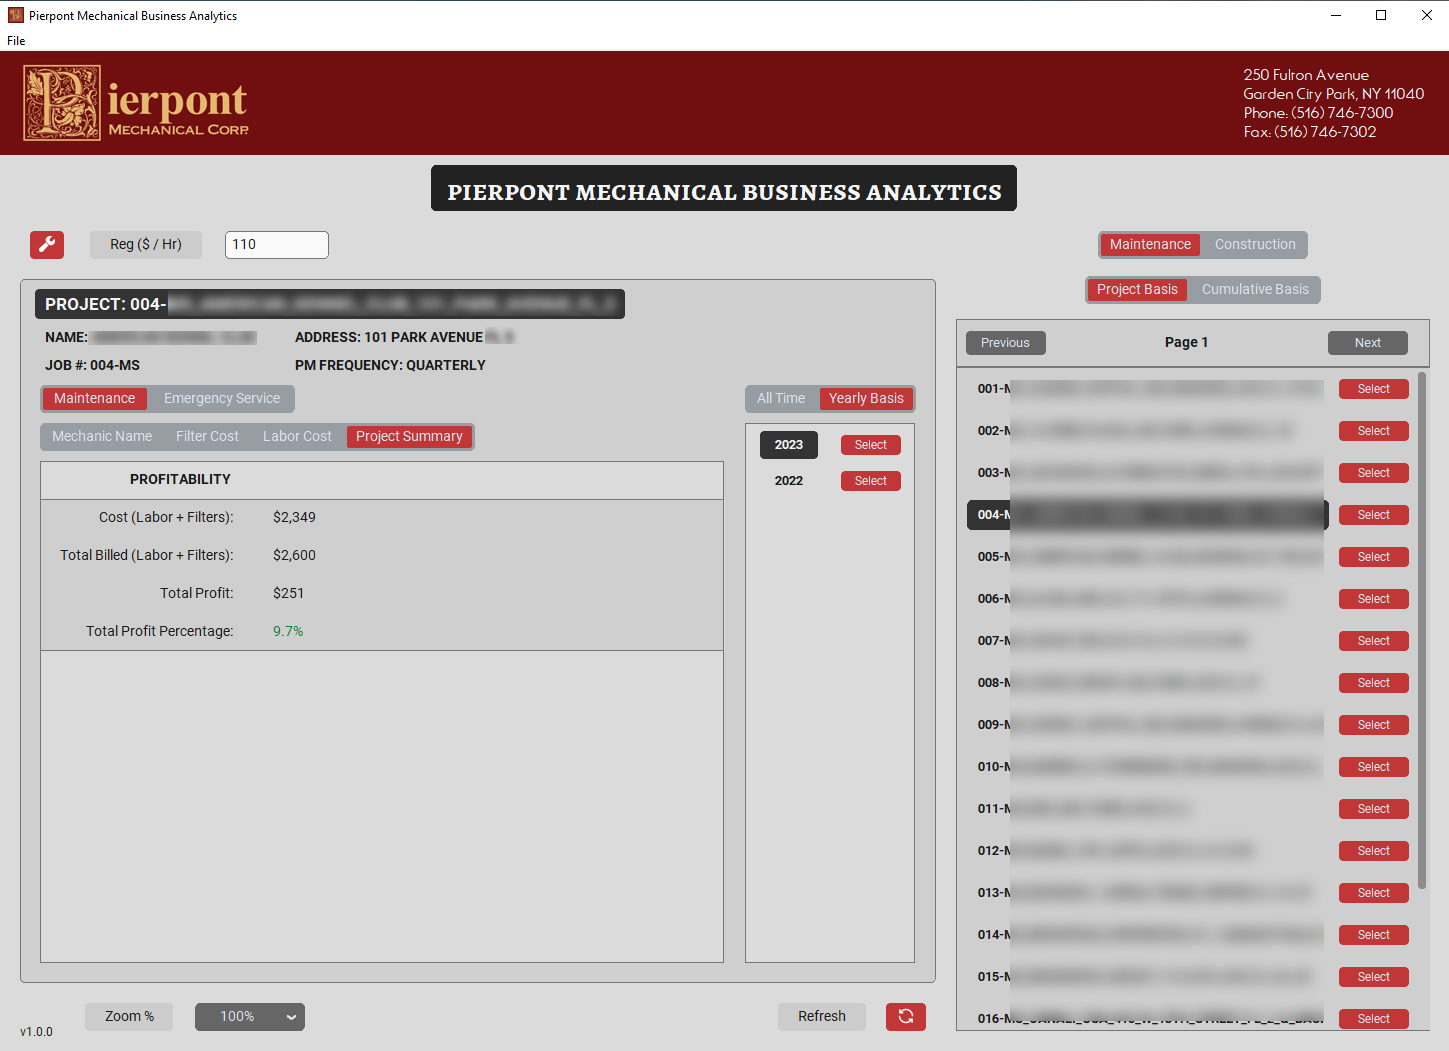
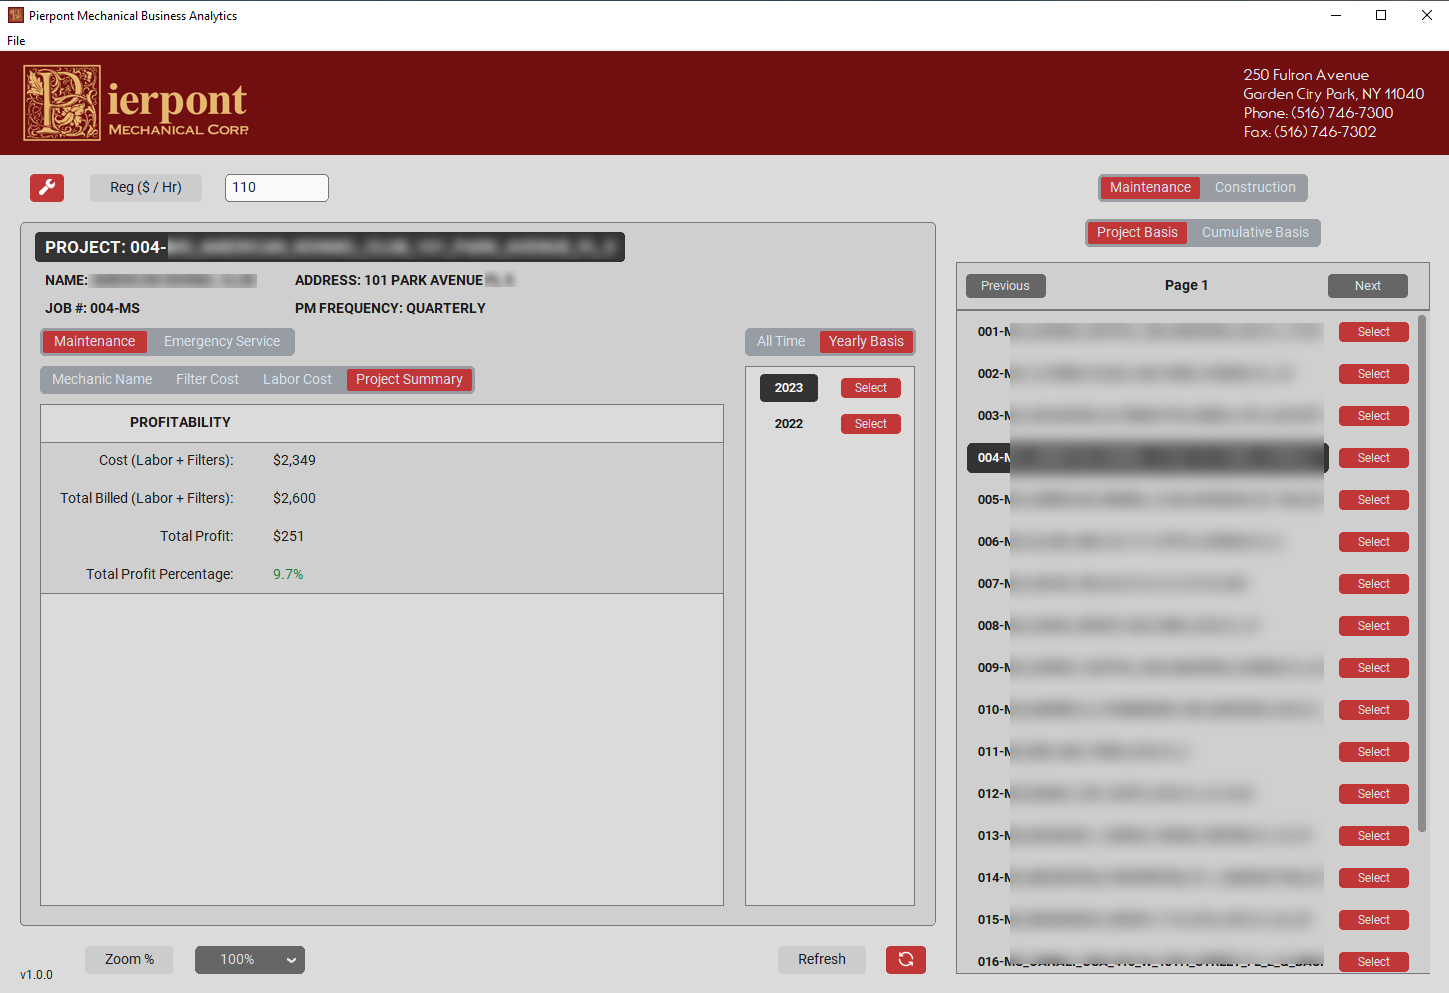
Updated Readme.md

Changed region(s): [[0.0, 0.0, 1.0, 0.999], [0.0311, 0.9053, 0.6522, 0.9678], [0.6832, 0.8429, 0.7143, 0.9366]]

diff --git a/runtime/gui.py b/runtime/gui.py
@@ -100,8 +100,8 @@ class App(customtkinter.CTk):
         self.main_frame.grid_rowconfigure(4, weight=1)
         self.main_frame.grid_columnconfigure((3,5), weight=1)
         # App Title
-        title_label = customtkinter.CTkLabel(self.main_frame, text="pierpont mechanical business analytics", fg_color='#222', corner_radius=6, text_color='#f5f5f5', font=title_font)
-        title_label.grid(row=0, column=0, columnspan=7, ipadx=10, ipady=1, padx=25, pady=10, sticky='n')
+        # title_label = customtkinter.CTkLabel(self.main_frame, text="pierpont mechanical business analytics", fg_color='#222', corner_radius=6, text_color='#f5f5f5', font=title_font)
+        # title_label.grid(row=0, column=0, columnspan=7, ipadx=10, ipady=1, padx=25, pady=10, sticky='n')
 
         # Project Navigation
         self.seg_button_1 = customtkinter.CTkSegmentedButton(self.main_frame, font=self.regular_font, command=self.maintenance_construction_navigation)

diff --git a/README.md b/README.md
@@ -3,17 +3,19 @@
 ## Table of Contents
 
 * [About the Project](#About-the-Project)
-* [Screentshots](#Screenshots)
+* [Screenshots](#Screenshots)
 * [License](#License)
 
 ## About the Project
 
+This project was commissioned to provide a convenient way to view profitability and expenses reports of each maintenance and construction client. The previous CLI Email Scanner project, provided a system of organization for each one of the projects. All of the PDF information was parsed and stored locally in JSON format. The information was pulled into this application for processing.
+
+The JSON information contains the project name, project address, unique client ID, as well as all of the site visit information and expenses. Separate cost CSV files were created to track the actual cost incurred by the client. Information was broken down on a monthly basis, yearly basis, per client and per client category. 
 
 ## Screenshots
 
-<!-- 
-<img src="https://raw.githubusercontent.com/andrew-drogalis/CLI-Email-Scanner/main/screenshots/Email_Scanner.PNG" alt="CLI-Email-
-Scanner-Screenshot" style="width: 850px; padding-top: 10px;"> -->
+<img src="https://raw.githubusercontent.com/andrew-drogalis/Business-Analytics-Desktop-App/main/assets/Analytics_1.PNG" alt="CLI-Email-
+Scanner-Screenshot" style="width: 850px; padding-top: 10px;">
 
 
 ## License
